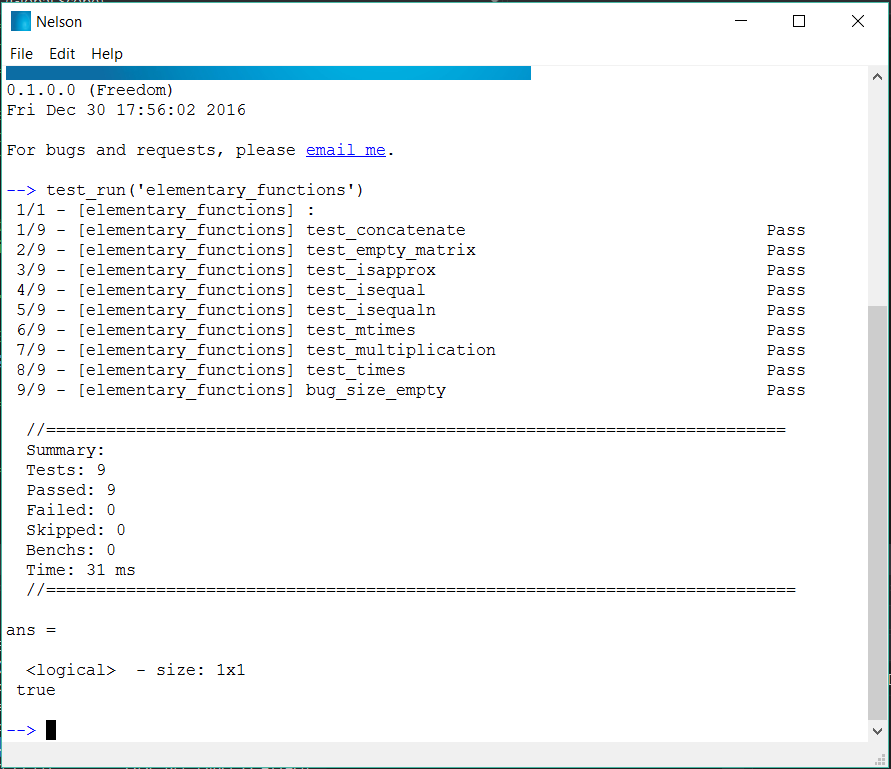
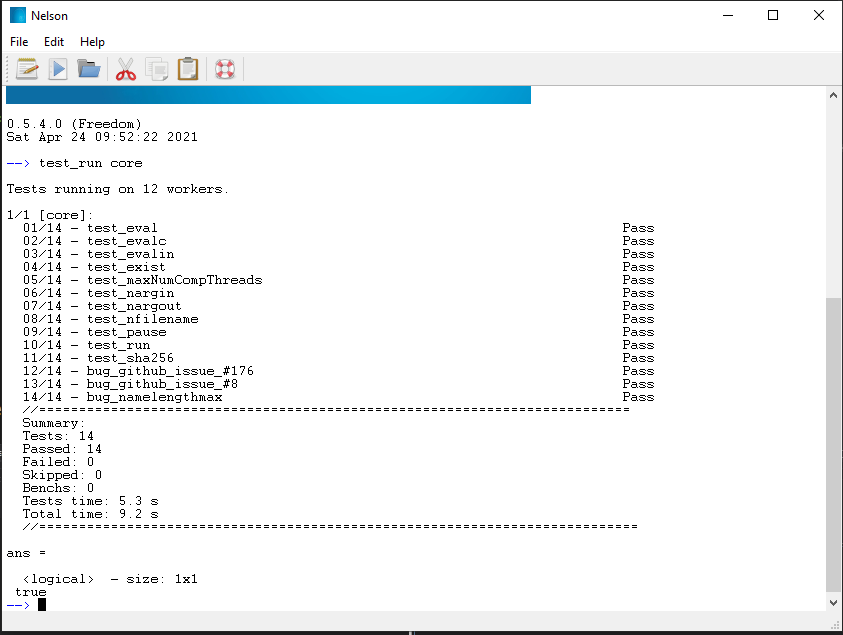
new 0.5.4 features

diff --git a/README.md b/README.md
@@ -49,6 +49,7 @@ Nelson has been developed to be an open/modular system where an user can define 
 - [Nelson in the Cloud](CLOUD.md) ☁,
 - [Audio module](AUDIO.md),
 - [UNICODE and charset support](CHARSET.md),
+- [validators functions](VALIDATORS.md),
 - [Code editor](CODE_EDITOR.md).
 
 ## [Sources](https://github.com/Nelson-numerical-software/nelson)
@@ -72,7 +73,9 @@ The systems listed here without CI or binaries are known to build and operate, b
 |    Windows 7+    | x86-64 (64-bit) |  ✓  |    ✓     |
 |                  |  i686 (32-bit)  |  ✓  |    ✓     |
 |   MacOS 10.10+   | x86-64 (64-bit) |  ✓  |          |
+|   Ubuntu 20.04   | x86-64 (64-bit) |     |          |
 |   Ubuntu 18.04   | x86-64 (64-bit) |  ✓  |          |
+|   Ubuntu 16.04   | x86-64 (64-bit) |  ✓  |          |
 |    Debian 10     | x86-64 (64-bit) |  ✓  |          |
 |    Fedora 30     | x86-64 (64-bit) |  ✓  |          |
 |    ArchLinux     | x86-64 (64-bit) |  ✓  |          |

diff --git a/VALIDATORS.md b/VALIDATORS.md
@@ -1,0 +1,24 @@
+## Validators functions
+
+Property Validation Functions:
+These functions support common use patterns for validation and provide descriptive error messages.
+
+```nelson
+function r = myFunction(arg1, arg2)
+    mustBeFloat(arg1, 1)
+    mustBeFloat(arg2, 2)
+    mustBeScalarOrEmpty(arg1, 1)
+    mustBeScalarOrEmpty(arg2, 2)
+    r = arg1 + arg2
+endfunction
+```
+
+```nelson
+r = myFunction('a', 2)
+r = myFunction([1 2], 2)
+r = myFunction(1, [3 2])
+```
+
+See help about [validations function](https://nelson-numerical-software.github.io/nelson-website/help/en_US/chapter_validators.html)
+
+[Previous page](FEATURES.md)

diff --git a/TESTSENGINE.md b/TESTSENGINE.md
@@ -1,6 +1,8 @@
 ## Tests engine
 
 Validate your algorithm using Nelson dedicated [functions](https://nelson-numerical-software.github.io/nelson-website/help/en_US/chapter_assert_functions.html).
+
+Since v0.5.4, tests are executed on multiple workers on all platforms supported (linux, mac and windows).
 ![alt text](https://github.com/Nelson-numerical-software/nelson-website/raw/master/images/test_run.png "test_run")
 
 Export the test results under the xUnit reports format.
